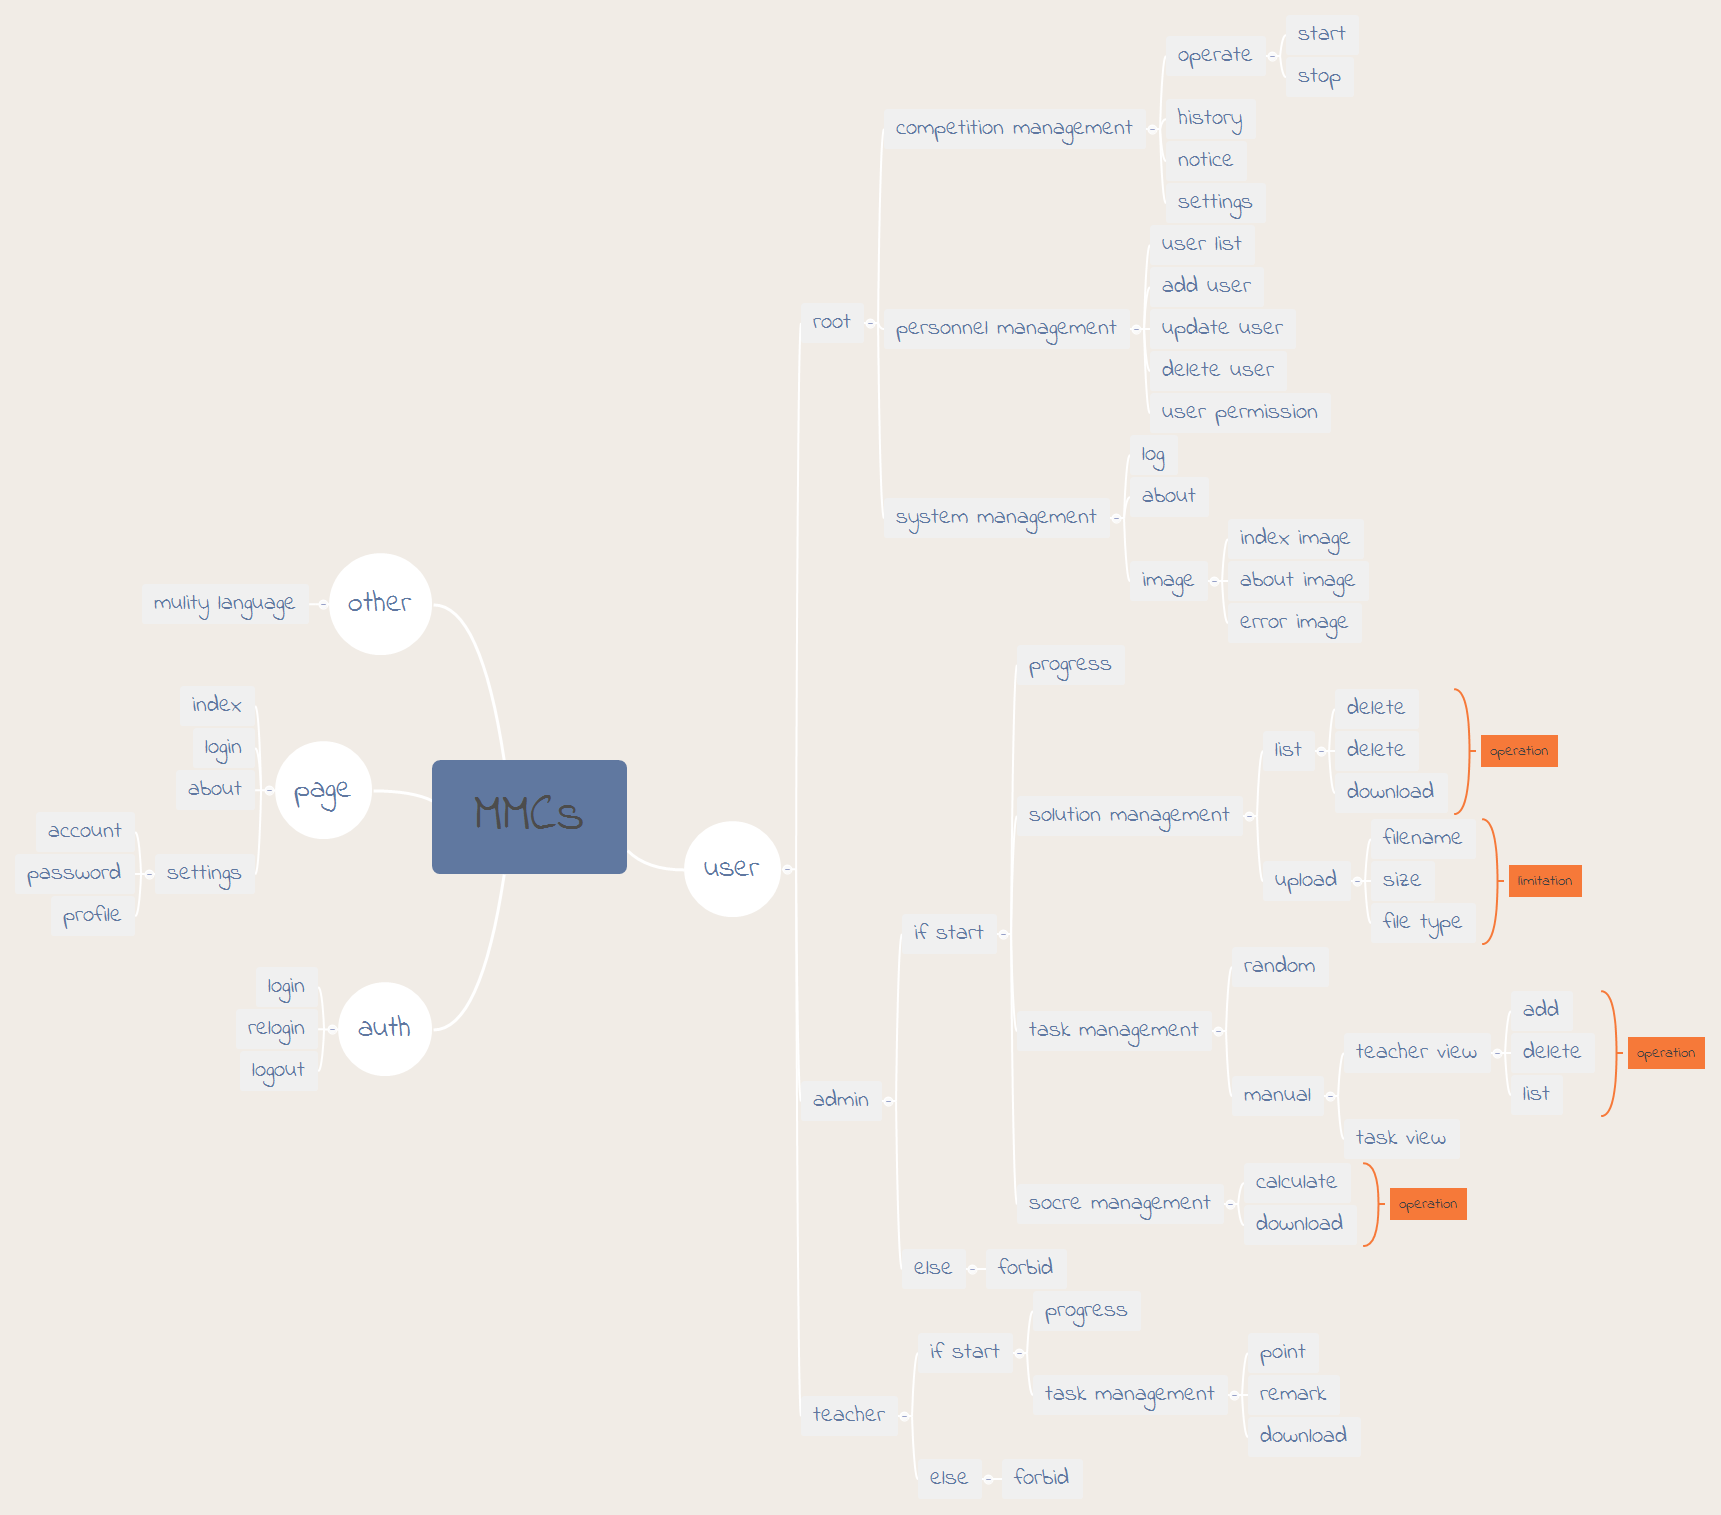
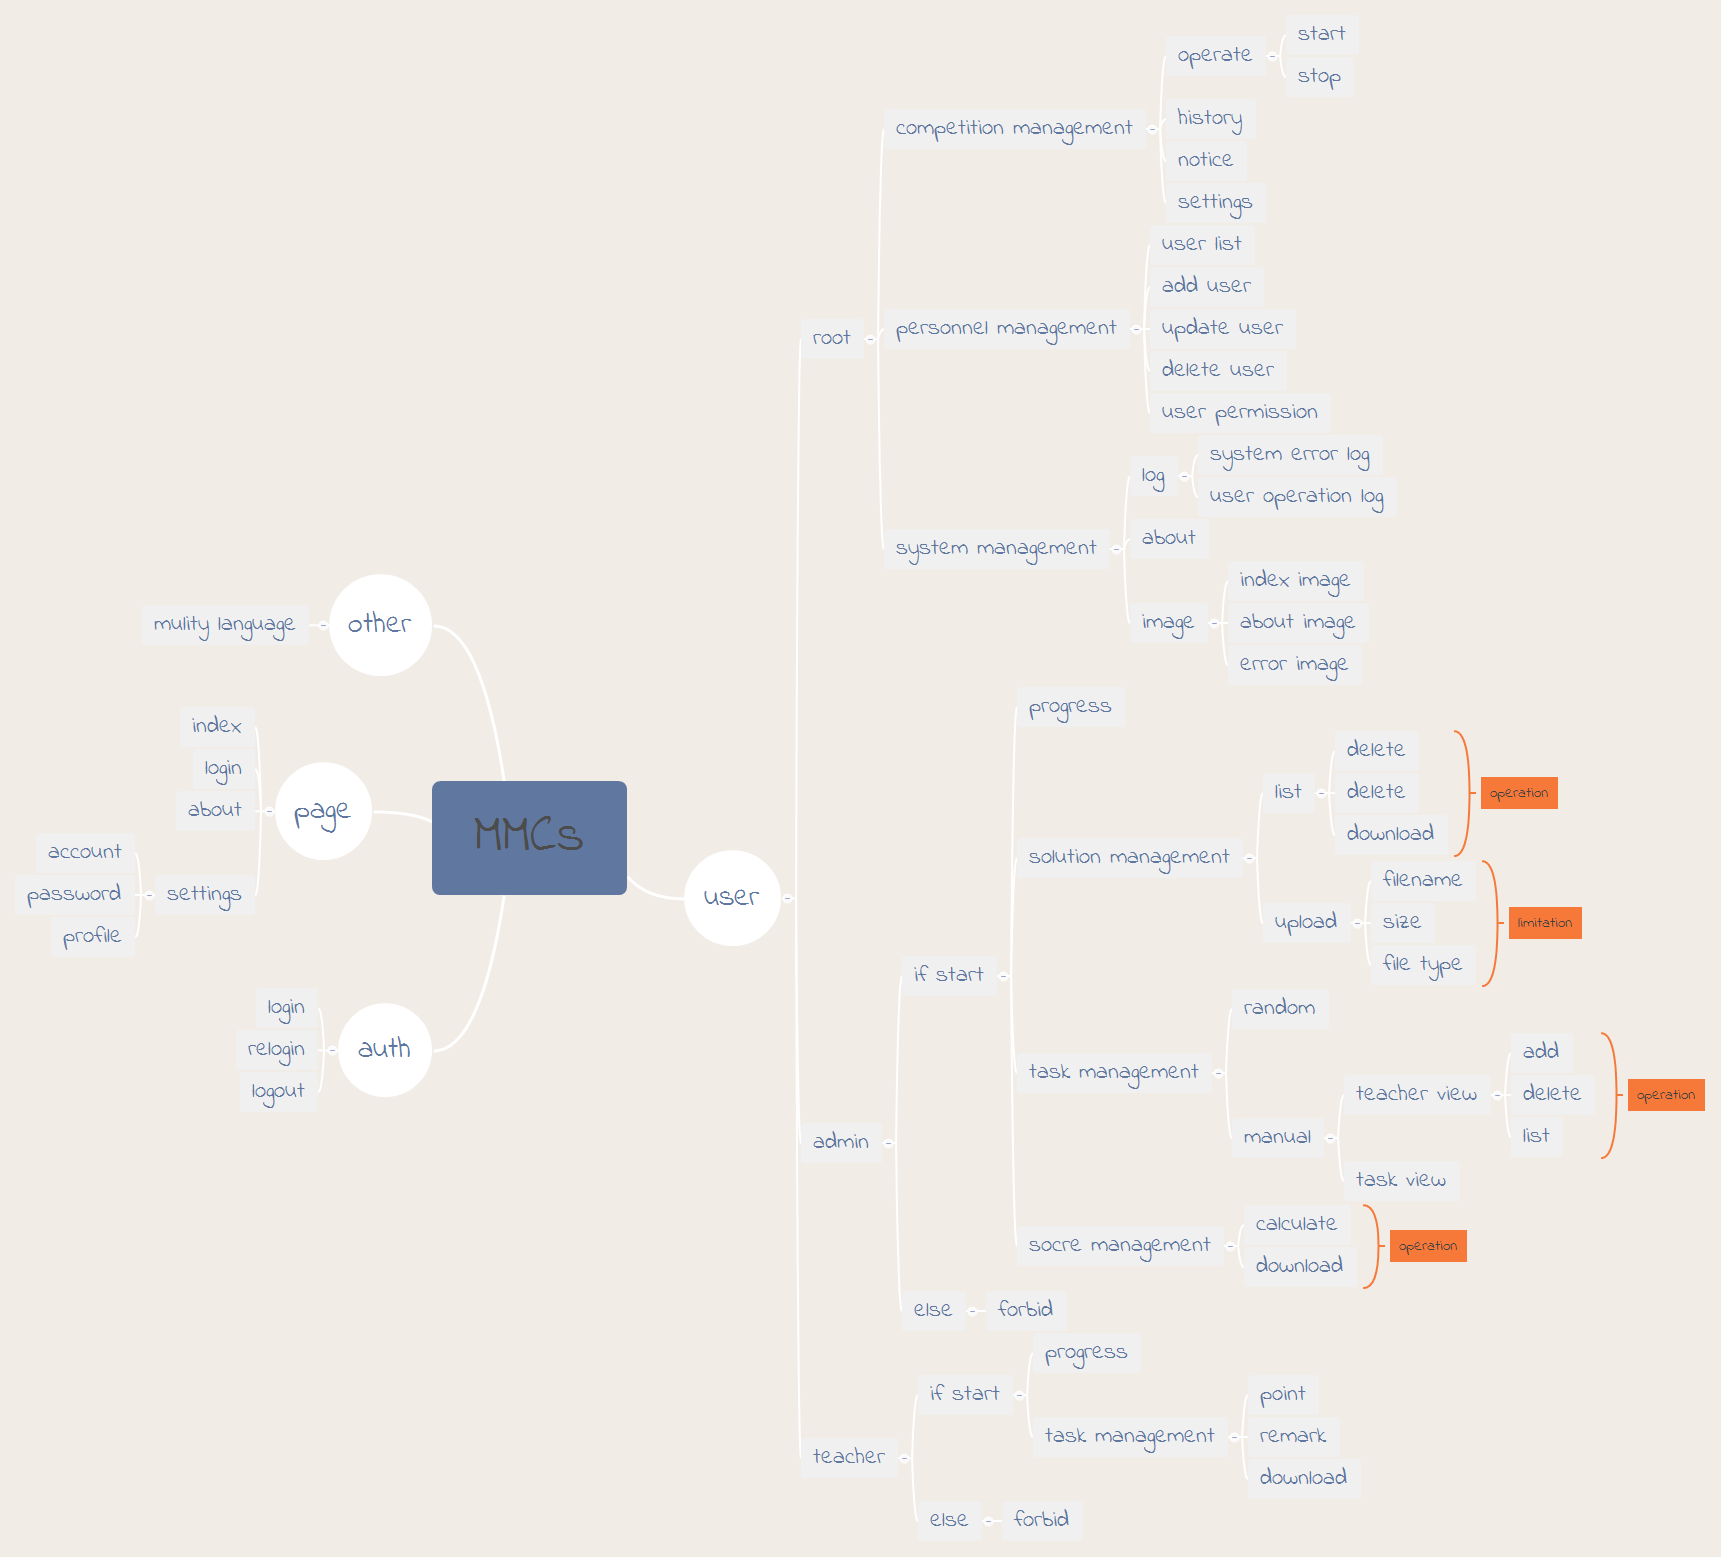
:memo: update doc

diff --git a/docs/DESCRIPTION.md b/docs/DESCRIPTION.md
@@ -160,7 +160,13 @@ root 类型用户主要负责把控全局，记录并控制所有竞赛情况。
 
     - log 日志
 
-        > 下载 error 错误日志
+        - Download user operation logs
+
+            > 下载用户操作日志
+
+        - Download system error logs
+
+            > 下载系统错误日志
 
     - about 关于
 
